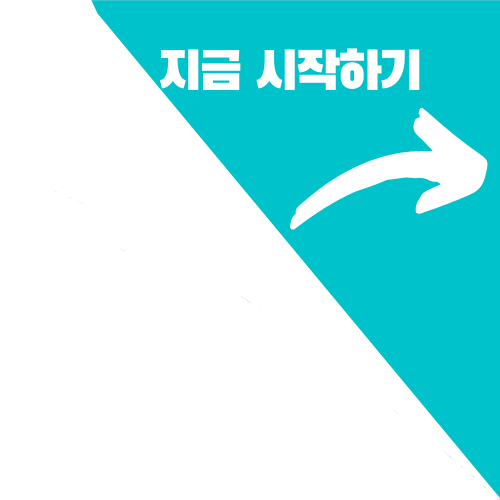
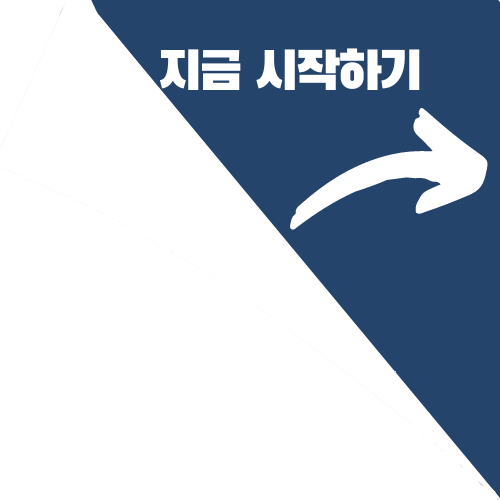
change text,img on single-page

diff --git a/src/client/scss/single/single.scss b/src/client/scss/single/single.scss
@@ -1,8 +1,6 @@
 
 .single-body{
-    background-image: url('/img/bg.jpg');
-    background-size: 100vw 100vh;
-    background-repeat: no-repeat;
+    background-color: $--color-main-blue;
 }
 .header{
     width: 50%;
@@ -33,23 +31,40 @@
     }
 }
 #fullPage{
-    .section{
-        // width: 100%;
-        // height: 100vh;
+    .section{        
         .content{
             width: 50%;
             margin: 0 auto;
             overflow: hidden;
             height: 100%;
-            margin-top: 300px;
+            position: relative;                
             .cont-text{
-                display: block;
                 width: 100%;
+                height: 100%;
+                display: block;
+                margin-top: 150px;
+                .cont-desc{
+                    color:  $--color-white;
+                    font-size: 15px;
+                    margin-top:30px;
+                }
             }
-            .cont-desc{
-                color:  $--color-white;
-                font-size: 15px;
-                margin-top:30px;
+            .cont-img{
+                width: 100%;
+                height: 50%;
+                img{                    
+                    width: 50%;
+                    height: 50%;
+                    position: absolute;
+                    right: 0;
+                    bottom: 0;
+                }
+                .cont-img-small{
+                    width: 35%;
+                    height: 35%;
+                    left: 0;
+                    bottom: 100px;
+                }
             }
         }
     }

diff --git a/src/client/js/singlePage.js b/src/client/js/singlePage.js
@@ -6,6 +6,5 @@ new fullpage('#fullPage', {
     navigation: true,
     showActiveTooltip: true,
     scrollingSpeed: 1000,
-    sectionsColor: ['', '#4BBFC3', '#7BAABE', '#cacccd', '#73aace', '#C5DFD3', '#25446B'],
 })
 
